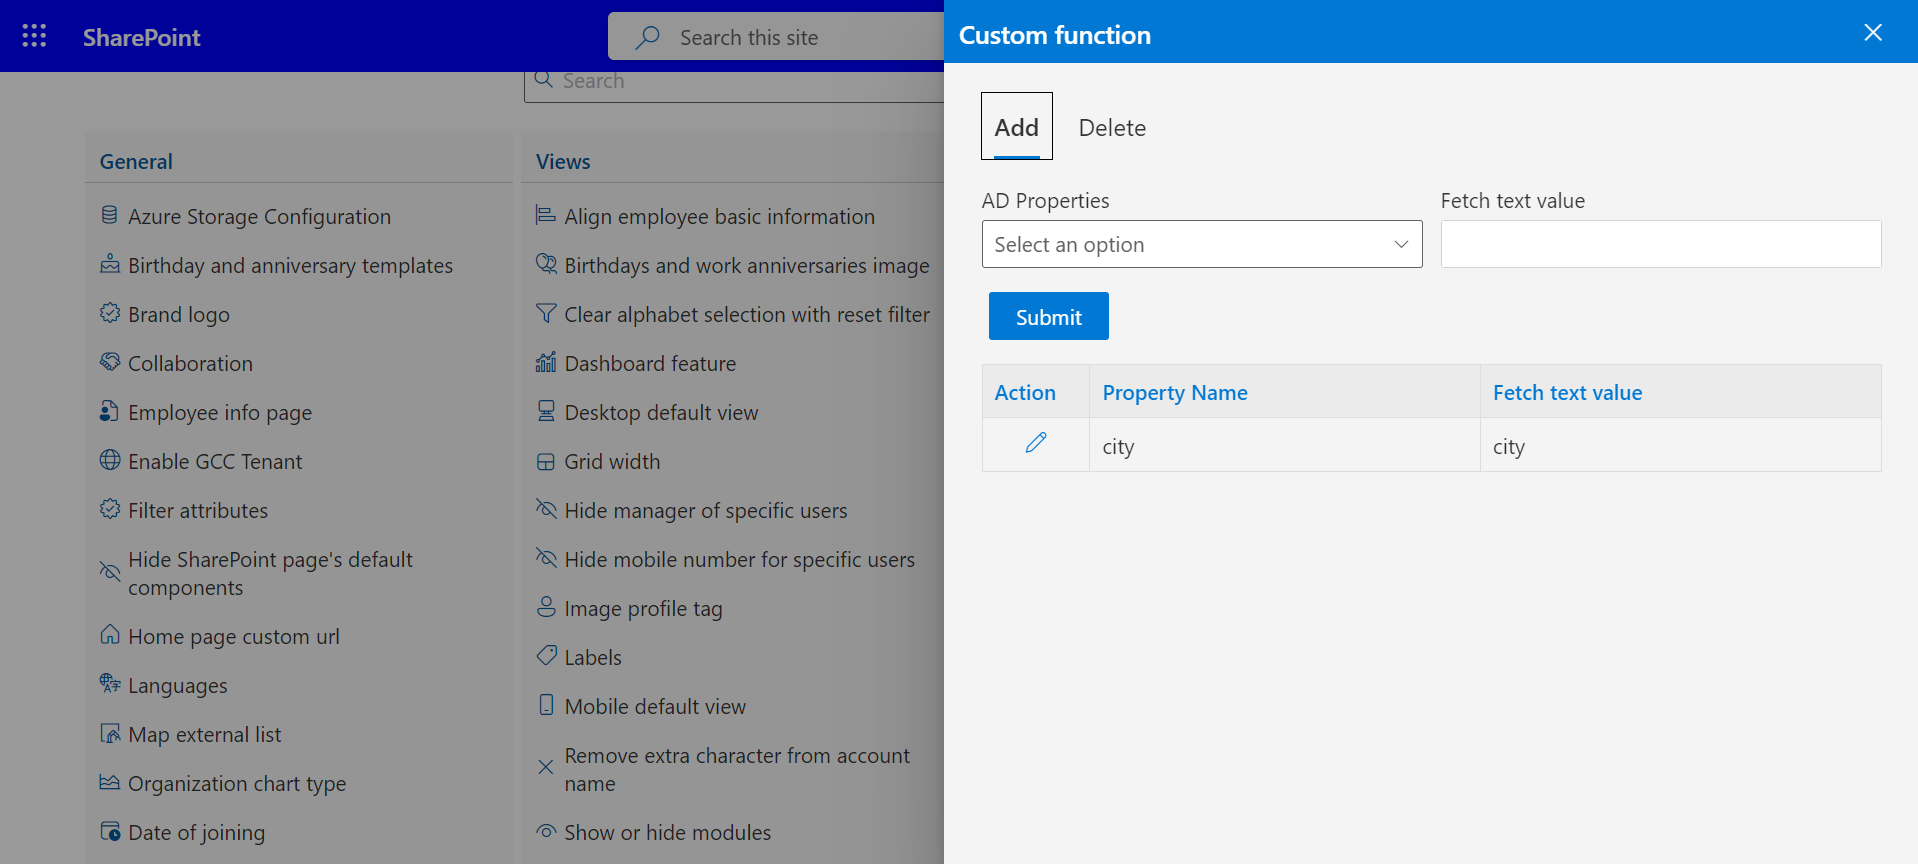
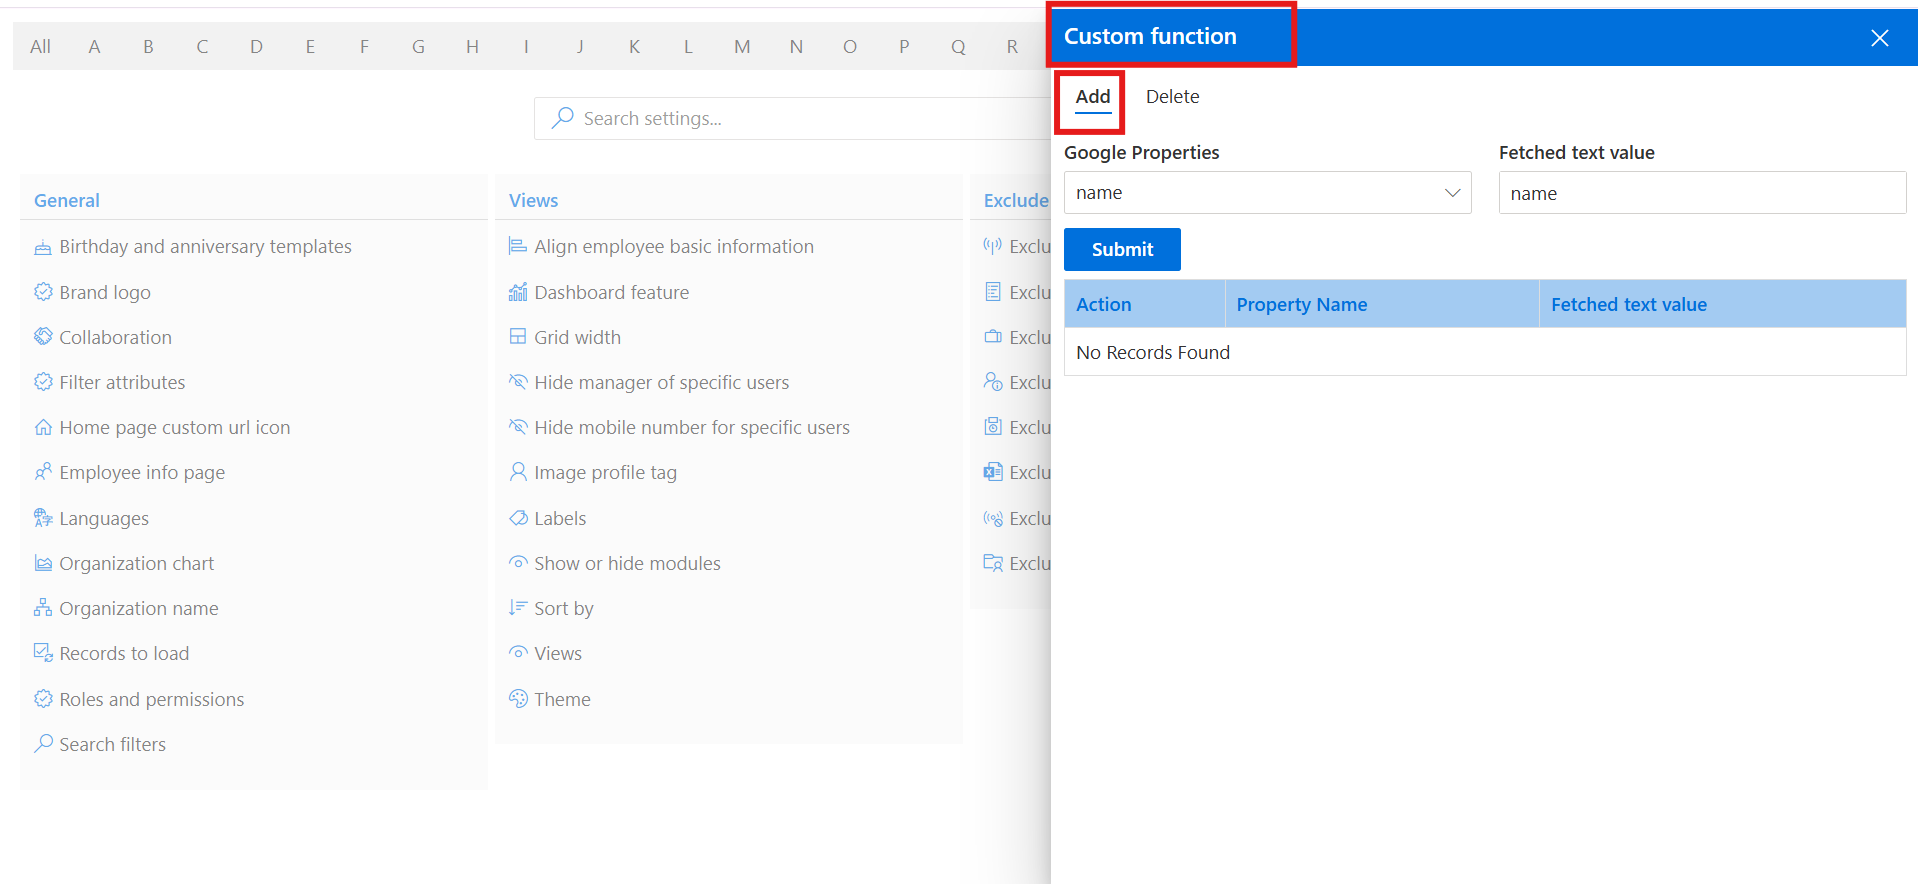
Google-Ed365

diff --git a/js/google-ed365-admin.js b/js/google-ed365-admin.js
@@ -61,7 +61,7 @@ $(document).ready(function () {
         "<a href='/Google-ED365/modern/admin/settings/'>" +
         "Settings" +
         "</a>" +
-        "<img src='../../down-arrow-svgrepo-com.svg' class='imageIconmainsetting aside_dropdown_icon_setting''>" +
+        "<img src='https://ik.imagekit.io/zn4au2jftpm5/hr365/down-arrow-avgrepo-com_TZAnDIIsES.svg?updatedAt=1717655767081' class='imageIconmainsetting aside_dropdown_icon_setting''>" +
         "</li>" +
 
         "<li data-nav-id='./Setting/' title='Settings' class='sidelist dropdown_romove_dot'>" +
@@ -74,7 +74,7 @@ $(document).ready(function () {
         "<a  class='qwe' href='/Google-ED365/modern/admin/settings/general/'>" +
         "General" +
         "</a>" +
-        "<img src='../../down-arrow-svgrepo-com.svg' class='imageIcongeneral aside_dropdown_icon''>" +
+        "<img src='https://ik.imagekit.io/zn4au2jftpm5/hr365/down-arrow-avgrepo-com_TZAnDIIsES.svg?updatedAt=1717655767081' class='imageIcongeneral aside_dropdown_icon''>" +
         "</li>" +
         "<li data-nav-id='../advanced/' class='sidelist dropdown_romove_dot' >" +
 
@@ -143,7 +143,7 @@ $(document).ready(function () {
         "<a  class='qwe' href='/Google-ED365/modern/admin/settings/views/'>" +
         "Views" +
         "</a>" +
-        "<img src='../../down-arrow-svgrepo-com.svg' class='imageIcongeneral aside_dropdown_icon''>" +
+        "<img src='https://ik.imagekit.io/zn4au2jftpm5/hr365/down-arrow-avgrepo-com_TZAnDIIsES.svg?updatedAt=1717655767081' class='imageIcongeneral aside_dropdown_icon''>" +
         "</li>" +
         "<li data-nav-id='../advanced/' class='sidelist dropdown_romove_dot' >" +
 
@@ -252,7 +252,7 @@ $(document).ready(function () {
         "<a  class='qwe' href='/Google-ED365/modern/admin/settings/exclude-options/'>" +
         "Exclude Options" +
         "</a>" +
-        "<img src='../../down-arrow-svgrepo-com.svg' class='imageIcongeneral aside_dropdown_icon''>" +
+        "<img src='https://ik.imagekit.io/zn4au2jftpm5/hr365/down-arrow-avgrepo-com_TZAnDIIsES.svg?updatedAt=1717655767081' class='imageIcongeneral aside_dropdown_icon''>" +
         "</li>" +
         "<li data-nav-id='../advanced/' class='sidelist dropdown_romove_dot' >" +
 
@@ -324,7 +324,7 @@ $(document).ready(function () {
         "<a href='/Google-ED365/modern/admin/settings/advanced/'>" +
         "Advanced" +
         "</a>" +
-        "<img src='../../down-arrow-svgrepo-com.svg' class='imageIcongeneral aside_dropdown_icon''>" +
+        "<img src='https://ik.imagekit.io/zn4au2jftpm5/hr365/down-arrow-avgrepo-com_TZAnDIIsES.svg?updatedAt=1717655767081' class='imageIcongeneral aside_dropdown_icon''>" +
         "</li>" +
         "<li data-nav-id='../advanced/' class='sidelist dropdown_romove_dot' >" +
 

diff --git a/Google-ED365/modern/admin/settings/advanced/index.html b/Google-ED365/modern/admin/settings/advanced/index.html
@@ -264,7 +264,7 @@ When the <b>Auto Load</b> toggle is turned <b>on</b>, additional records will au
 <div><img src="23.png" onclick="openModal('23.png')" alt="AD Custom Attributes View" width="100%" height="auto"></div><br>
 
               <li id="Customfunction"><b>Custom function</b>: <br>
-                You can develop a custom function enabling users to select specific Active Directory (AD) properties and
+                You can develop a custom function enabling users to select specific Google properties and
                 retrieve their respective values.
                 <!-- For instance, if a user selects "DateOfJoining" as the property and
                 inputs the value "2022-03-12", the function will showcase users whose DateOfJoining corresponds to

diff --git a/Google-ED365/modern/getting-started/installation/index.html b/Google-ED365/modern/getting-started/installation/index.html
@@ -84,7 +84,7 @@
                         <ul class=list-styled>
                             <li data-nav-id=https://github.com/hr365docs/My-project.git/installation/ title=Installation
                                 class="sidelist">
-                                <a href="../../../../Google-ED365/classic/getting-started/installation/">
+                                <a href="../../../../Google-ED365/getting-started/installation/">
                                     Installation
                                 </a>
                                 <ul>
